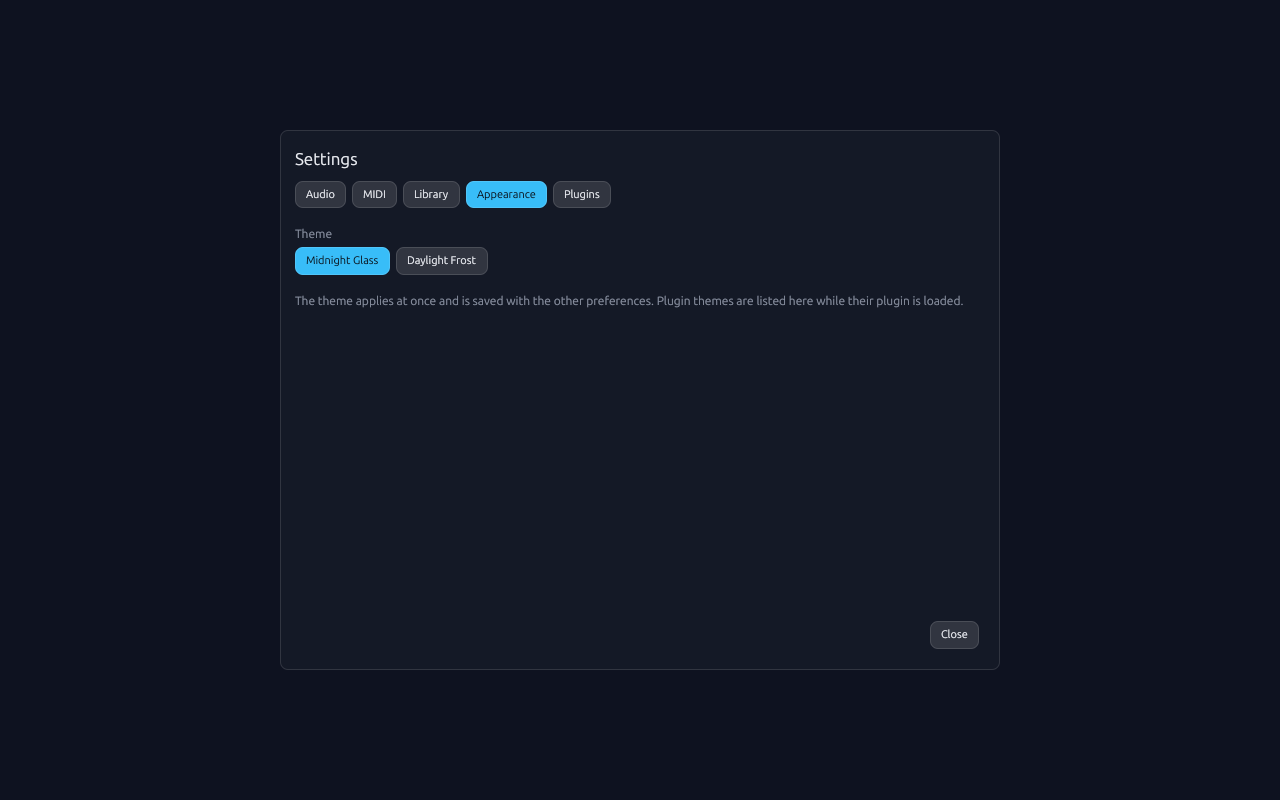
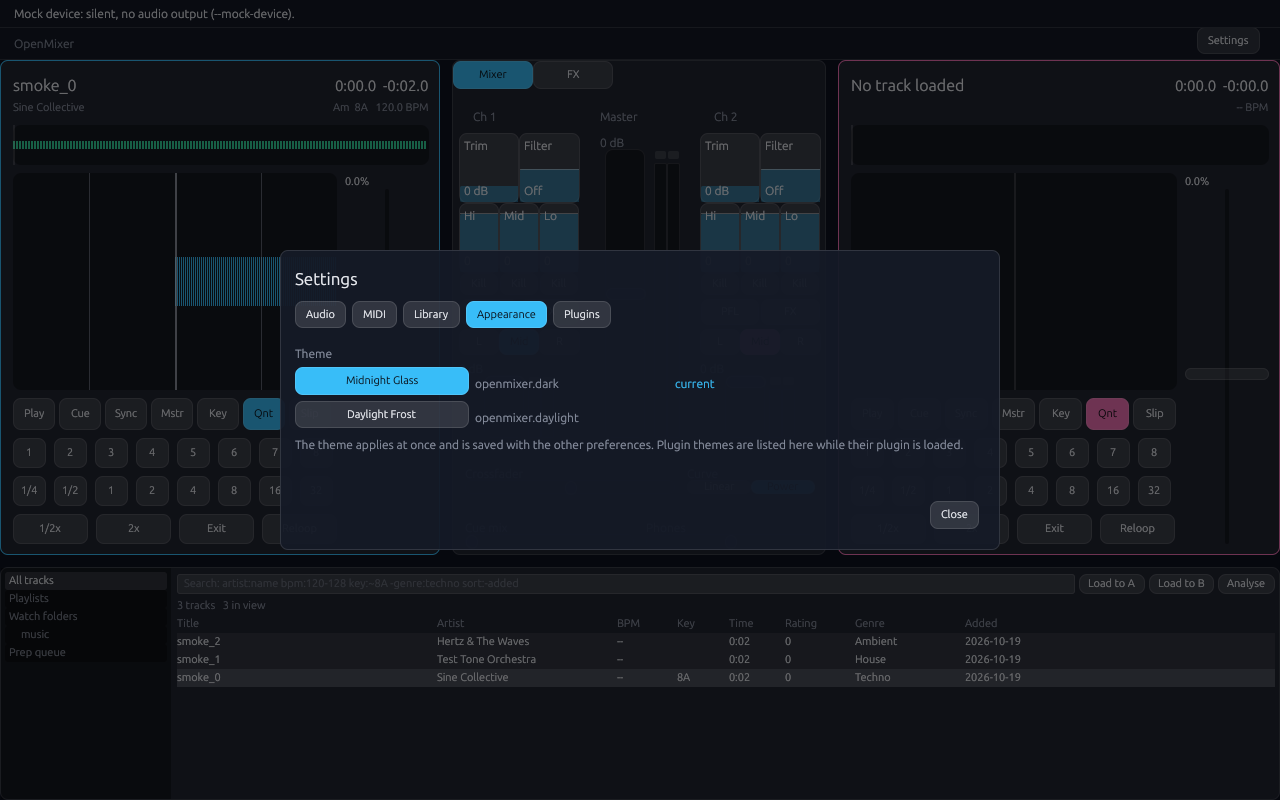
docs: regenerate screenshots (7 scenes) and before/after review

diff --git a/docs/screenshots/REVIEW.md b/docs/screenshots/REVIEW.md
@@ -1,24 +1,34 @@
 # Screenshot review
 
-Captured with `tools/screenshots.sh` (debug build, X11 on WSLg, llvmpipe-class software GL, 1280x800, `--mock-device`, demo library of 3 generated 2 s sine WAVs, deck A loaded). Looked at by eye on 2026-10-19. The window renders (not blank/black). Scenes: `main-dark`, `main-daylight`, `debug-panel`, `settings-audio`, `settings-appearance`.
+Captured with `tools/screenshots.sh` (debug build, X11 on WSLg, llvmpipe-class software GL, 1280x800, `--mock-device`, demo library of 3 generated 2 s sine WAVs, deck A loaded). Looked at by eye on 2026-10-19. The window renders (not blank/black). Scenes: `main-dark`, `main-daylight`, `debug-panel`, `settings-audio`, `settings-appearance`, `settings-midi`, `settings-library`.
 
 ## Fixed while capturing
 - Theme was not applied at start-up: `OPENMIXER_THEME` and the saved theme never reached the window (it always used `openmixer.dark`). Now the window starts on the env theme, else the saved one.
 
-## Defects, most severe first
-1. **Library panel overlaps the deck controls (all main scenes).** The library sidebar (left, "All tracks / Playlists / ...") is drawn over deck A's button row: Play, Cue, Sync, Mstr are dimmed/cut by the sidebar's translucent block (x 0-170, y 570-800); deck B's row is fully visible. The deck button rows sit inside the library's area instead of under the decks.
-2. **Deck buttons sit below the library table, far from their deck.** Play/Cue/Sync/Mstr/Key/Qnt/Slip are at y 740-765, under the track list, detached from the deck cards above. Looks unfinished.
-3. **Settings overlay hides the whole window (both settings scenes).** The scrim is opaque; the main window is not visible behind the card, so it is not clear it is an overlay. Card is not centred vertically on content: the Appearance page is mostly empty space (y 310-620).
-4. **Audio page: "Master output" label has no options under it** (settings-audio, y 503): the pair choices are missing (mock device lists no stereo pair), only the heading is shown, then "Headphone output" follows immediately.
-5. **Text overlaps in the deck header (deck A, all main scenes).** "Am 8A -- BPM" is drawn over the time readout "0:00.0 -0:02.0" at y 120-150, and the overview strip (green bars) cuts through the text. Deck B has the same layout clash ("-- BPM" over "0:00.0 -0:00.0").
-6. **Knob/slider labels are overdrawn by their fills (mixer, both channels).** Trim, Filter, Hi, Mid, Lo: the name is drawn in the same area as the blue fill and the value ("0 dB"), so "Hi", "Mid", "Lo" are barely readable (low contrast, grey on blue). Trim/Filter show filled bars with no clear indication of the centre/zero.
-7. **Daylight theme: low-contrast disabled/inactive controls.** Deck button row (Play, Cue, Sync, Mstr, Key, Qnt, Slip) is washed out to near invisibility on the white backdrop (partly defect 1). Meters and sliders are light grey on light grey (channel meters at x 530-555 and 655-680 are barely visible). Headline text in the library header is fine.
-8. **Waveform is a static comb, not a real waveform.** Deck A shows a flat band of uniform vertical lines for the sine track (plausible for a pure tone, but the overview strip is a plain green bar with no shape and the left half of the scroller is empty). No beat grid or cue markers. BPM shows "--" and key "8A" only for smoke_0 (BPM analysis did not run or find a tempo on a sine tone), so this scene does not show analysed data.
-9. **Meters stuck at zero.** Channel and master meters are empty in every scene: expected with the silent mock device, but there is no way to see them move in a screenshot.
-10. **Library browser: search box shows its syntax hint as text** ("Search: artist:name bpm:120-128 ...") in the same colour as typed text; reads like a stuck query rather than a placeholder. Artist, Genre and BPM columns are empty or "--" for the demo files. Rating column shows plain "0". Selected row (smoke_0) highlight is subtle in dark theme.
-11. **Debug panel:** the file path fields read "click to type a file path" (placeholder, fine) but the parameter list is cut off at the window bottom without a scrollbar or a scroll indicator ("mixer.ch0.fader" last visible). The mixer and decks are squeezed (decks lose width, "Hi/Mid/Lo" values wrap to 0 / 0 / 0 dB).
-12. **Header:** the banner "Mock device: silent, no audio output" is flush at the window edge with no padding and is in a dim colour; the Settings button floats at the far right of an otherwise empty strip.
-13. **Crossfader and Cue mix/Phones are bare dark bars** with no handle visible (x 465-675, y 478-492), so their position is unreadable.
+## Defects: before and after (second pass, 2026-10-19)
+
+The first review listed 13 defects. A fix pass followed with `tools/screenshots.sh` as the loop (the PNGs here are the "after"). Root cause of 1, 2, 5 and 13: the deck rows and the slider thumbs were children of an already positioned box but were given card-absolute rectangles, so their offset was applied twice and they landed below the card (over the library band) or off the track.
+
+| # | Defect | Status | What changed / why not |
+|---|---|---|---|
+| 1 | Library sidebar overlapped deck A's button row | fixed | Rows now sit inside their deck card; cards clip their content. `main_layout` test: no overlap, all rects inside the window, deck parts inside the card, library band below the decks, at 1280x800, 1024x640, 1920x1080, 900x600. |
+| 2 | Deck buttons detached below the library table | fixed | Same cause and fix as 1. Hotcue pads, loop row and transport are now inside the card. |
+| 3 | Settings overlay hid the window; Appearance page empty | fixed | Scrim is black at the theme's `dimAlpha` (0.55) so the window shows through. Appearance lists each theme with its id and a "current" marker, and its card is shortened to fit. |
+| 4 | Audio "Master output" heading with no options | fixed | With no stereo pairs the two headings are replaced by one note. |
+| 5 | Deck header text overlap | fixed | Title and time on the first line, artist and key/BPM on the second, clipped to the header. |
+| 6 | Knob labels overdrawn / low contrast | fixed | Value fill is translucent (45%) and drawn first; label and readout use the primary text colour above it. Bipolar knobs get a centre line. A narrow knob (debug layout) drops the " dB" unit so it stays on one line. |
+| 7 | Daylight: near-invisible controls | fixed | Daylight tokens: darker border (`#77839B`), dark highlight (playhead, thumb edge), darker muted text and meter colours, `disabledAlpha` 0.85; meter wells get a border. New test: every control edge, fader thumb, disabled label and meter colour is >= 3:1 (daylight) / >= 1.2:1 (dark, visually fine, not tightened). |
+| 8 | Waveform: no grid or cues | partially | Beat and bar lines are drawn in the zoomed view; the demo puts a 120 BPM grid on deck A (header shows "120.0 BPM"). Hotcue markers were already drawn but the demo sets no cues, so none show. The waveform shape is still a flat comb (sine tones). |
+| 9 | Meters stuck at zero | not fixed | Silent mock device: nothing to show. Out of scope. |
+| 10 | Search hint style; empty Artist/Genre/BPM | partially | Hint is dim and italic-styled (the UI font may not render italics, it is only dimmer). Demo WAVs carry artist/genre/title RIFF INFO tags that the ingest reads, so Artist and Genre columns fill. BPM stays "--" in the table: sine tones have no tempo, and the library table only shows analysed BPM. Rating "0" unchanged. |
+| 11 | Debug panel clipping and squeeze | partially | The parameter list scrolls with the wheel and a "scroll the list for more" footer marks the clip; column narrowed 340 to 300 px. Decks and mixer are still narrower than in a normal run. |
+| 12 | Banner / header | fixed | Banner is taller, has padding, primary text colour and a bottom border; the header strip has an "OpenMixer" title and a border. |
+| 13 | Crossfader / cue bars had no handle | fixed | Thumb from `LookAndFeel` fader is drawn on the track (its offset was doubled before, which put it off the bar). |
+
+## Remaining observations
+- Settings Library page: the watch-folder path runs right up to its Remove button.
+- Settings cards other than Appearance keep a fixed 540 px height with some empty space at the bottom.
+- Waveforms are only as detailed as the 2 s sine demo tracks allow.
 
 ## Not captured
-Settings MIDI, Library and Plugins tabs (one process per scene, kept to the README's set); anything with real audio or hardware (never used).
+Settings Plugins tab; anything with real audio or hardware (never used).
